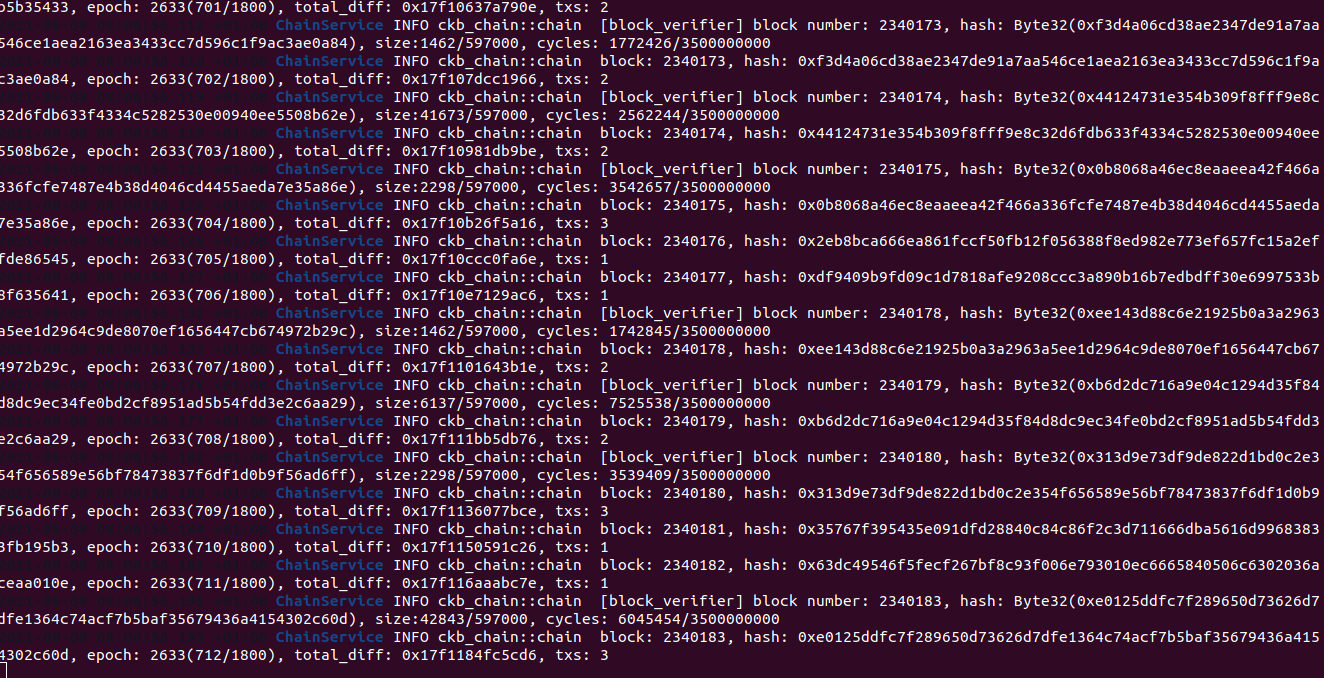
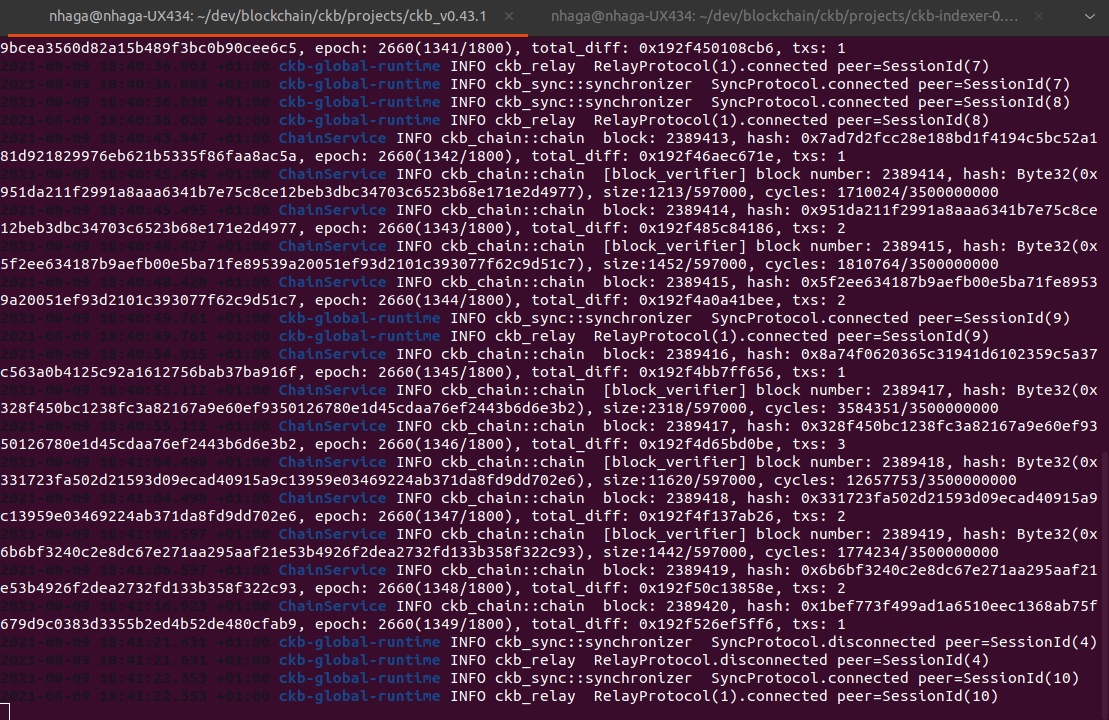
updated screenshots

diff --git a/task0/README.MD b/task0/README.MD
@@ -7,3 +7,5 @@ Nervos gitcoin hackathon
 <img src="ckb_node.png">
 
 ### ckb-indexer
+
+<img src="indexer.png">
